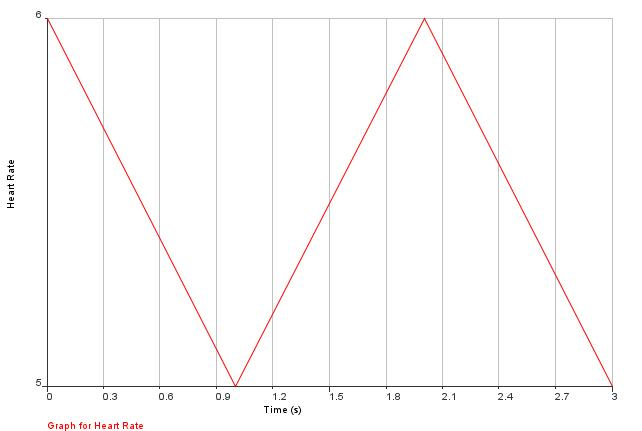
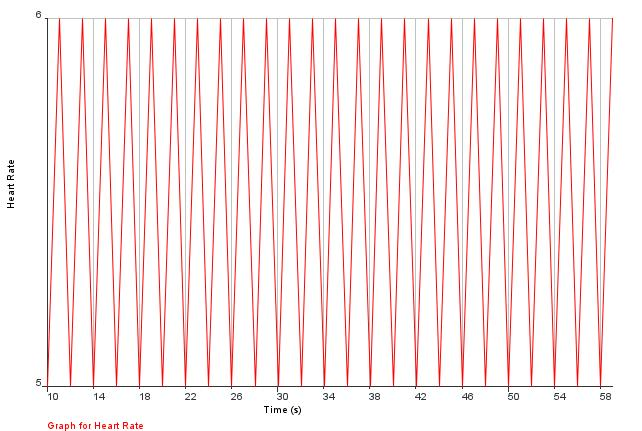
changed communication protocol
changed communication protocol, now communicating in data packets as per the command given.
Reading the i/p data packet, decoding it, processing it and sending back any data packet if required.

Changed region(s): [[0.0623, 0.0302, 0.9657, 0.935], [0.0623, 0.0302, 0.0935, 0.0905], [0.0623, 0.9049, 0.0935, 0.935]]

diff --git a/MyGuiProject/src/projectGui/DisplayFrame.java b/MyGuiProject/src/projectGui/DisplayFrame.java
@@ -19,6 +19,7 @@ import javax.swing.JLabel;
 import javax.swing.JMenu;
 import javax.swing.JMenuBar;
 import javax.swing.JMenuItem;
+import javax.swing.JOptionPane;
 import javax.swing.JPanel;
 import javax.swing.JScrollPane;
 import javax.swing.JTextField;
@@ -354,8 +355,8 @@ public class DisplayFrame
 		graphPanel.repaint();
 		
 	}
-	private void plotChart(int xaxis, int yaxis) {	
-		trace.addPoint(xaxis, yaxis);
+	private void plotChart(int xvalue, int yvalue) {	
+		trace.addPoint(xvalue, yvalue);
 	}
 	
 		private void clearChart() {
@@ -397,13 +398,15 @@ public class DisplayFrame
 		spo2Field.setText("");
 		bpmField.setText("");
 		ppgField.setText("");
-
+		clearChart();
 	}
 	
 	private void actionStart() {
 		
 		plotGraph.setEnabled(true);
 		clearGraph.setEnabled(true);
+		Start.setEnabled(false);
+		sendPacket(SerialNetwork.pType_start);
 		
 	}
 	
@@ -414,6 +417,7 @@ public class DisplayFrame
 	                try {
 	                    BufferedImage bi = chart.snapShot();
 	                    ImageIO.write(bi, "JPEG", new File("Graph.jpg"));
+	                    JOptionPane.showMessageDialog(mainFrame, "Graph Saved");
 	                    printTextWin("\n Graph Saved ", 1, true);
 	                    System.out.println("\n Graph Saved  \n ");
 	                    // other possible file formats are PNG and BMP
@@ -504,7 +508,82 @@ public class DisplayFrame
 		}
 	}
 	
+	
+public void updateDynamic1() {
+		
+		byte[] rData ;
+    	String  splits[];
+    	int  k;
+    	
+    	while ((rData = SerialNetwork.recvSerial()) != SerialNetwork.error) {
+				System.out.println("["+ rData + "]");
+				
+			try {
+				byte pType = rData[0];
+				switch(pType) {
+				
+				case SerialNetwork.pType_startSuccess:
+					sendPacket(SerialNetwork.pType_sendData);
+					break;
+					
+				case SerialNetwork.pType_startFail:
+					sendPacket(SerialNetwork.pType_start);
+					break;
 
+				case SerialNetwork.pType_data:
+					processData(rData);
+					break;
+					
+				case SerialNetwork.pType_stopOk:
+					
+					break;
+
+				case SerialNetwork.pType_error:
+					
+					break;
+
+
+				}
+
+				
+			} catch  (NumberFormatException e) {
+		        System.out.println(e.toString());
+		    }
+    	}
+   	}
+
+	private void processData(byte[] data) {
+	
+		if(data.length <= NCOLS) {
+    		System.out.print("processData: Data Insufficient");
+			return;
+		}
+		
+		int spo2 = data[1];
+		int bpm = data[2];
+		int ppg = data[3];
+		
+		displayReading(spo2, bpm, ppg);
+		
+		if(plotEnable) {
+			plotChart(Pb_NValues,);
+		}
+	}
+
+	static void sendPacket(byte pType) {
+	
+		byte[] sendData = new byte[6];
+		int sendDatalength = 1;
+		
+		sendData[0] = SerialNetwork.startByte;
+		sendData[1] = (byte)sendDatalength;
+		sendData[2] = pType;
+		sendData[3] = 1;
+		sendData[4] = (byte) (pType^1);
+		sendData[5] = SerialNetwork.stopByte;
+		SerialNetwork.sendData(sendData, sendData.length);
+	
+		}
 
 	//a method for updating all values of GUI
 

diff --git a/MyGuiProject/src/projectGui/SerialNetwork.java b/MyGuiProject/src/projectGui/SerialNetwork.java
@@ -9,6 +9,19 @@ public class SerialNetwork {
 	static SerialPort mPort;
 	static private String mPortName = null;
 	
+	 //defining protocol constants
+	public static byte startByte = 0x24;             // $ for start
+	public static byte stopByte = 0x23;			 // # for stop
+	public static final byte pType_start = 0x25;
+	public static final byte pType_startSuccess = 0x26;
+	public static final byte pType_startFail = 0x27;
+	public static final byte pType_sendData = 0x28;
+	public static final byte pType_data = 0x29;
+	public static final byte pType_stopData = 0x30;
+	public static final byte pType_stopOk = 0x31;
+	public static final byte pType_error = 0x32;
+	public static final byte[] error = {(byte) 0xff};
+	
 	
 	static void initSerialNet () {
 		
@@ -64,6 +77,52 @@ public class SerialNetwork {
 		return mPortName;
 	}
 	
+	static byte[] recvSerial() {
+		
+		int minBytes = 5;
+		long bytesToRead = 1;
+		byte[] temp = new byte[1];
+		byte[] crc = new byte[1];
+		crc[0] = 0x00;
+		
+		
+	
+		/* check if min bytes are available for reading*/
+		if(mPort.bytesAvailable() <= minBytes) {
+			return error; 
+		}
+		
+		/*read the first byte, check if it is startByte*/
+		mPort.readBytes(temp,bytesToRead); 
+		if (temp[0] != startByte) {
+			return error;						/*if first byte is not startByte, return error*/
+		}
+		
+		mPort.readBytes(temp,bytesToRead); 
+		bytesToRead = temp[0];
+		byte[] data = new byte[(int) bytesToRead];
+		
+		mPort.readBytes(data, bytesToRead);
+		for (int i = 0; i < data.length; i++) {
+		crc[0] = (byte) (crc[0] ^ data[i]);
+		}
+		
+		bytesToRead = 1;
+		mPort.readBytes(temp, bytesToRead);
+		if (temp[0] != crc[0]) {
+			return error;						/*if first byte is not startByte, return error*/
+		}
+		
+		mPort.readBytes(temp, bytesToRead);
+		if (temp[0] != stopByte) {
+			return error;						/*if first byte is not startByte, return error*/
+		}
+		
+		return data;
+	}
+	
+	
+	
 	static String ReadString() {
     	String  recv_str;
         byte[] d_arr = new byte[32];
@@ -112,4 +171,11 @@ public class SerialNetwork {
         }
         return recv_str;
     }
+
+	public static void sendData(byte[] sendData, int length) {
+		// TODO Auto-generated method stub
+		if(isConnected) {
+			mPort.writeBytes(sendData, length);
+		}
+	}
 }
